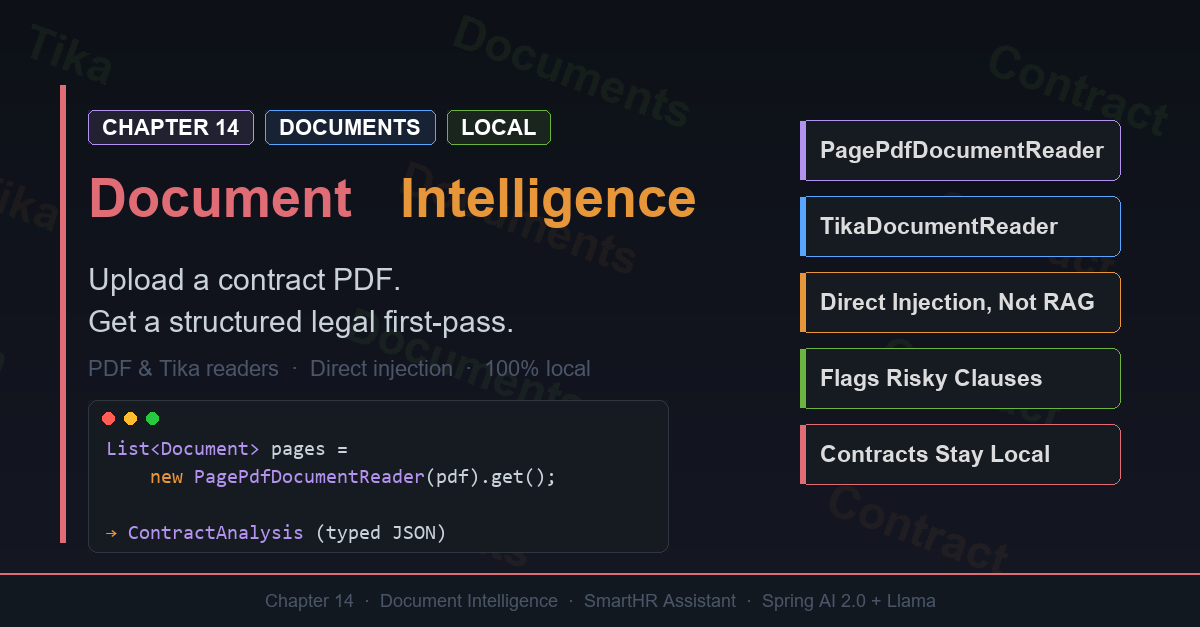
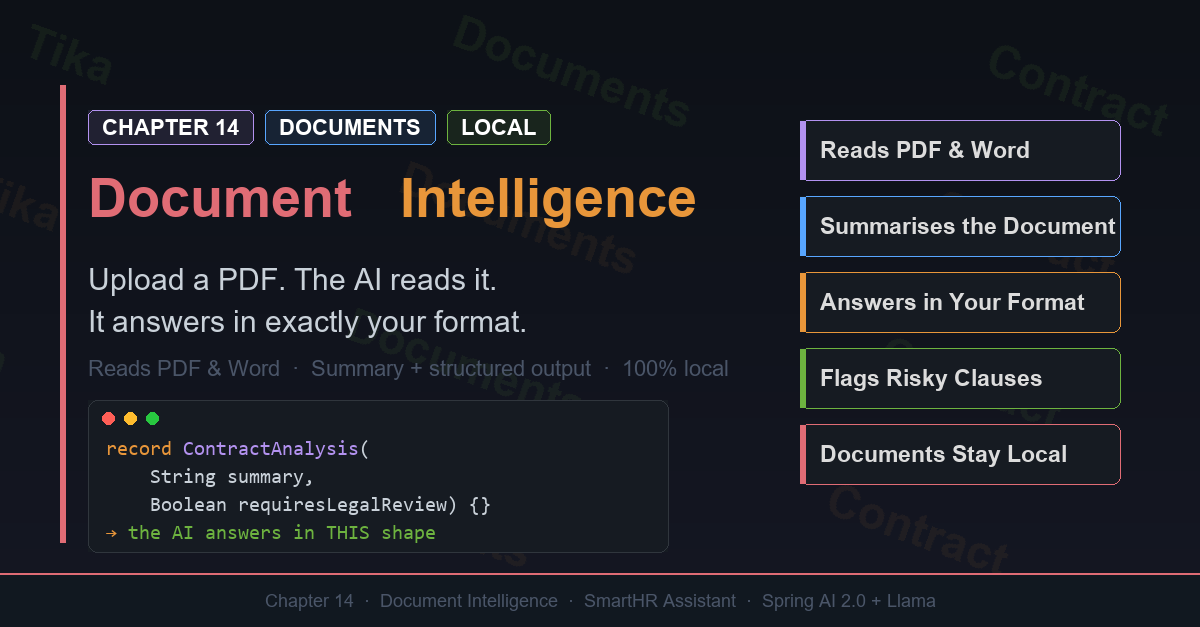
made it simple

diff --git a/content/linkedin/chapter-14-document-intelligence.md b/content/linkedin/chapter-14-document-intelligence.md
@@ -1,16 +1,16 @@
-# Chapter 14 — Your AI Can Now Read the Contract So You Don't Have To
+# Chapter 14 — Your AI Can Read a Document and Answer in Exactly the Format You Ask For
 
-Sarah reviews every employment contract before it reaches a new hire. Twenty minutes each, scanning PDFs for the same things: What's the probation period? The notice period? Who owns the IP? And — the one that actually matters — is there anything *weird* in here that a lawyer needs to see?
+Sarah reads every employment contract before it reaches a new hire. Twenty minutes each, looking for the same handful of things: the probation period, the notice period, who owns the IP — and anything unusual that a lawyer should see.
 
 > "Can the AI do a first pass for me?"
 
-Chapter 14 of "Spring AI with Llama" builds exactly that: upload a contract PDF, get back a structured review in seconds.
+Chapter 14 of "Spring AI with Llama" builds it: upload the PDF, get back a summary and the exact fields you asked for. In seconds. All on your own laptop.
 
 ---
 
-## Teaching the Bot to Read Files
+## Step 1 — Let the AI read the file
 
-For fourteen chapters the SmartHR bot has only ever seen text you typed into a prompt. Real HR work lives in **documents** — PDFs, Word files, web pages. Spring AI closes that gap with **document readers**:
+For thirteen chapters the bot only ever saw text you typed into a prompt. Real work lives in documents. Spring AI closes that gap with **document readers**:
 
 ```java
 // PDF — one Document per page
@@ -20,29 +20,15 @@ List<Document> pages = new PagePdfDocumentReader(resource).get();
 List<Document> docs = new TikaDocumentReader(resource).get();
 ```
 
-Two lines, and an uploaded file becomes text the model can reason over. No manual parsing, no format-specific libraries.
+Two lines, and an uploaded file becomes text the model can reason over. No manual parsing. No format-specific libraries.
 
 ---
 
-## Direct Injection, Not RAG
+## Step 2 — Ask for the answer in your format
 
-Here's a decision that trips people up. We built RAG back in Chapter 7 — so shouldn't we chunk the contract, embed it, and retrieve the relevant bits?
+This is the part that matters.
 
-**No.** RAG is for finding the few relevant pieces in a *large library*. Here we have *one* document and we want to analyse *all* of it. So we do the opposite: **direct injection** — the entire contract goes into the prompt.
-
-| Direct injection (this chapter) | RAG (Chapter 7) |
-|---|---|
-| One document, analysed fully | Large corpus, searched |
-| Fits the context window | Too big to fit |
-| "Review this contract" | "Find the answer in these 500 docs" |
-
-Knowing *which* tool fits the job is half of building good AI systems.
-
----
-
-## Structured Output Does the Heavy Lifting
-
-A prose summary is nice. A typed object your systems can route, store, and alert on is what actually saves Sarah's twenty minutes. Combine the PDF text with `BeanOutputConverter` (Chapter 5) and the endpoint returns:
+A paragraph of prose is nice to read, but useless to your code. So instead of asking "summarise this contract", you define the shape you want and ask for that:
 
 ```java
 public record ContractAnalysis(
@@ -55,10 +41,11 @@ public record ContractAnalysis(
 ) {}
 ```
 
-Feed it a real contract and out comes:
+Feed it a real contract and out comes exactly that shape:
 
 ```json
 {
+  "summary": "Employment agreement between TechCorp Ltd and Rahul Menon...",
   "probationPeriod": "six (6) months",
   "noticePeriod": "three (3) months",
   "ipOwnership": "the Company",
@@ -67,24 +54,40 @@ Feed it a real contract and out comes:
 }
 ```
 
-The bot didn't just summarise — it **flagged the red flags**. That last field is what turns "read every contract" into "read only the ones the AI escalated."
+The AI didn't just summarise — it **read, understood, and reported back in the structure you specified**, including flagging the clauses that need a human.
+
+And because it's structured, your code can act on it:
+
+```java
+if (report.requiresLegalReview()) {
+    escalateToLegal(report);
+}
+```
+
+That's the whole point. Prose stops at a human reader. A typed object feeds your systems — route it, store it, alert on it. It turns "read every contract" into "read only the ones the AI escalated."
 
 ---
 
-## The Lessons That Carried Over
+## One design note: don't reach for RAG here
 
-Building this on Spring Boot 4.1 / Spring AI 2.0 (GA), two hard-won habits from Chapter 5 paid off immediately:
+We built RAG back in Chapter 7, so the instinct is to chunk the contract, embed it, and retrieve the relevant bits.
 
-- **Boxed, nullable fields** (`Boolean`, not `boolean`) — Spring AI 2.0 uses Jackson 3, which throws when the model omits a field and `null` lands on a primitive. A contract might not state every term; the type system has to allow that.
-- **Name every field in the prompt, and set `temperature(0.0)`** — small local models will otherwise improvise. Explicit guidance plus zero temperature makes extraction boringly reliable, which is exactly what you want for a legal first pass.
+Don't. RAG is for finding a few relevant pieces in a **large library**. Here you have **one document** and you want the model to read **all of it**. So you do the opposite — put the whole contract in the prompt. Same toolbox, different tool.
 
-Same discipline, new document type. That's the compounding payoff of building one app across a whole series.
+---
+
+## Two things that make it reliable
+
+Building this on Spring Boot 4.1 / Spring AI 2.0, two habits from Chapter 5 paid off immediately:
+
+- **Use boxed types** (`Boolean`, not `boolean`). Spring AI 2.0 uses Jackson 3, which throws when the model omits a field and `null` lands on a primitive. A contract might not state every term — the type system has to allow that.
+- **Name every field in the prompt and set `temperature(0.0)`.** Small local models otherwise improvise. Explicit guidance plus zero temperature makes extraction boringly reliable — exactly what you want for a legal first pass.
 
 ---
 
 ## What's Next — Chapter 15: Semantic Search
 
-The bot can read documents now. Next it learns to find them by *meaning* — semantic search over the policy library, so "how much time off after a baby" finds the parental-leave policy even without the word "leave."
+The bot can read documents now. Next it learns to find things by *meaning* — so "how much time off after a baby" finds the parental-leave policy even without the word "leave."
 
 ---
 
@@ -103,7 +106,7 @@ The bot can read documents now. Next it learns to find them by *meaning* — sem
 - [Chapter 11 — Exposing an Existing REST API as MCP Tools](https://www.linkedin.com/pulse/chapter-11-exposing-existing-rest-api-mcp-tools-balaji-chopparapu-ptegc/?trackingId=XPZnicIu%2BcI9hiU3DrfK1A%3D%3D)
 - [Chapter 12 — Your AI Bot Just Learned to See](https://www.linkedin.com/pulse/chapter-12-your-ai-bot-just-learned-see-balaji-chopparapu-ooulc/)
 - [Chapter 13 — Your AI Answers in 8 Seconds. Make It Feel Like 200ms.](https://www.linkedin.com/pulse/chapter-13-your-ai-answers-8-seconds-make-feel-like-200ms-chopparapu-0frsc/)
-- **Chapter 14 — Your AI Can Now Read the Contract So You Don't Have To** ← you are here
+- **Chapter 14 — Your AI Can Read a Document and Answer in Exactly the Format You Ask For** ← you are here
 - Chapter 15 — Your Search Box Is Lying: It Found Nothing, But Four People Matched *(link coming soon)*
 
 Full source code for all chapters is on GitHub — drop a star if you find it useful!
@@ -113,4 +116,4 @@ Full source code for all chapters is on GitHub — drop a star if you find it us
 
 *Built with Spring Boot 4.1, Spring AI 2.0, Java 25, and Ollama — runs entirely on your laptop, no paid APIs.*
 
-#SpringAI #SpringBoot #Java25 #Ollama #DocumentAI #PDF #RAG #LLM #GenerativeAI #AIEngineering #LocalAI #JavaDeveloper #SpringFramework #Llama
+#SpringAI #SpringBoot #Java25 #Ollama #DocumentAI #PDF #LLM #GenerativeAI #AIEngineering #LocalAI #JavaDeveloper #Llama

diff --git a/content/linkedin/chapter-14-post.md b/content/linkedin/chapter-14-post.md
@@ -4,13 +4,15 @@
 
 ---
 
-📄 **Sarah spends 20 minutes reading every contract for red flags. Now the AI does the first pass.**
+📄 **Your AI can read a document — and answer in exactly the format you ask for.**
 
-Chapter 14 of "Spring AI with Llama" teaches the bot to read: upload an employment contract PDF and get back a structured review — probation period, notice period, IP ownership, and any non-standard clauses a lawyer should see.
+Upload an employment contract PDF. The AI reads the whole thing and gives you back a summary plus the specific fields you asked for: probation period, notice period, who owns the IP, and any unusual clauses worth a second look.
 
-The design decision that matters: this is **direct injection, not RAG**. RAG finds the relevant bits in a big library; contract review means reading one document completely. Knowing which tool fits the job is half of building good AI systems.
+The important part: the answer isn't a paragraph. It's structured data — a Java record with `requiresLegalReview: true`. So your code can act on it. Route it, store it, alert on it. No human has to read prose first.
 
-And the output isn't prose — it's a typed record with `requiresLegalReview: true`. That's what turns "read every contract" into "read only the ones the AI escalated".
+That's the difference between an AI that *describes* and an AI your systems can actually *use*.
+
+Chapter 14 of "Spring AI with Llama" — all local, no API keys.
 
 🔗 Read the full article: *(link coming soon)*
 

diff --git a/content/linkedin/chapter-15-semantic-search.md b/content/linkedin/chapter-15-semantic-search.md
@@ -101,7 +101,7 @@ The bot can talk, remember, retrieve, act, see, stream, read documents, and now 
 - [Chapter 11 — Exposing an Existing REST API as MCP Tools](https://www.linkedin.com/pulse/chapter-11-exposing-existing-rest-api-mcp-tools-balaji-chopparapu-ptegc/?trackingId=XPZnicIu%2BcI9hiU3DrfK1A%3D%3D)
 - [Chapter 12 — Your AI Bot Just Learned to See](https://www.linkedin.com/pulse/chapter-12-your-ai-bot-just-learned-see-balaji-chopparapu-ooulc/)
 - [Chapter 13 — Your AI Answers in 8 Seconds. Make It Feel Like 200ms.](https://www.linkedin.com/pulse/chapter-13-your-ai-answers-8-seconds-make-feel-like-200ms-chopparapu-0frsc/)
-- Chapter 14 — Your AI Can Now Read the Contract So You Don't Have To *(link coming soon)*
+- Chapter 14 — Your AI Can Read a Document and Answer in Exactly the Format You Ask For *(link coming soon)*
 - **Chapter 15 — Your Search Box Is Lying: It Found Nothing, But Four People Matched** ← you are here
 
 Full source code for all chapters is on GitHub — drop a star if you find it useful!
